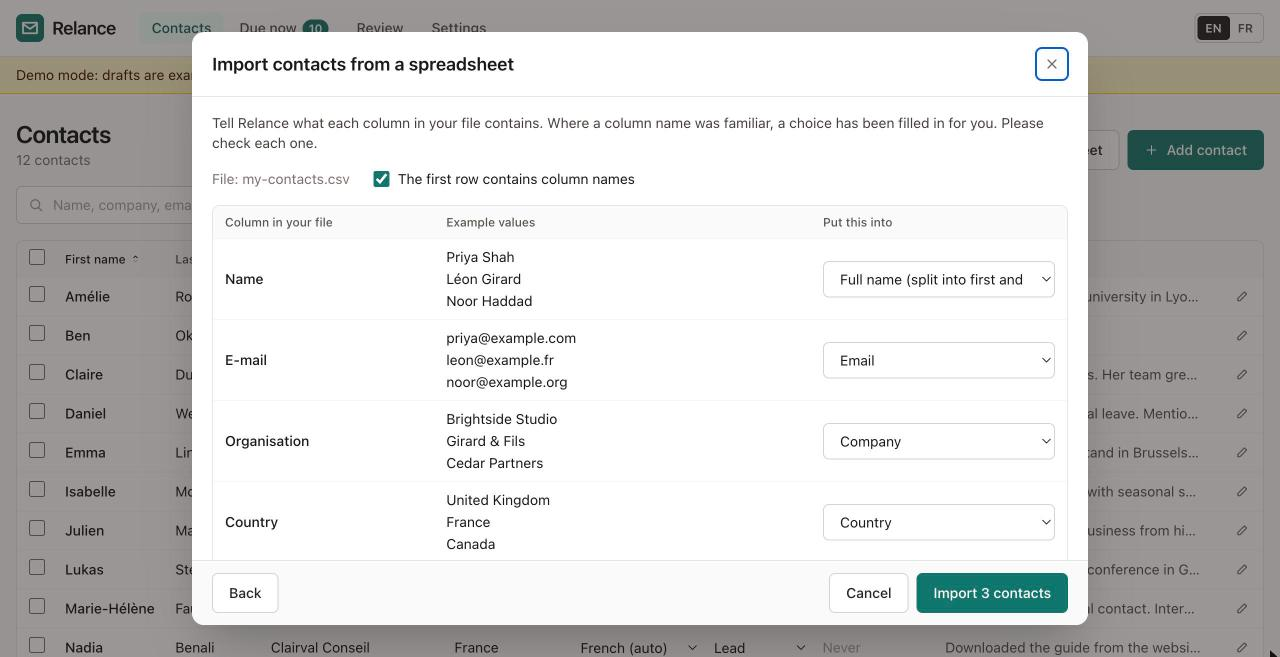
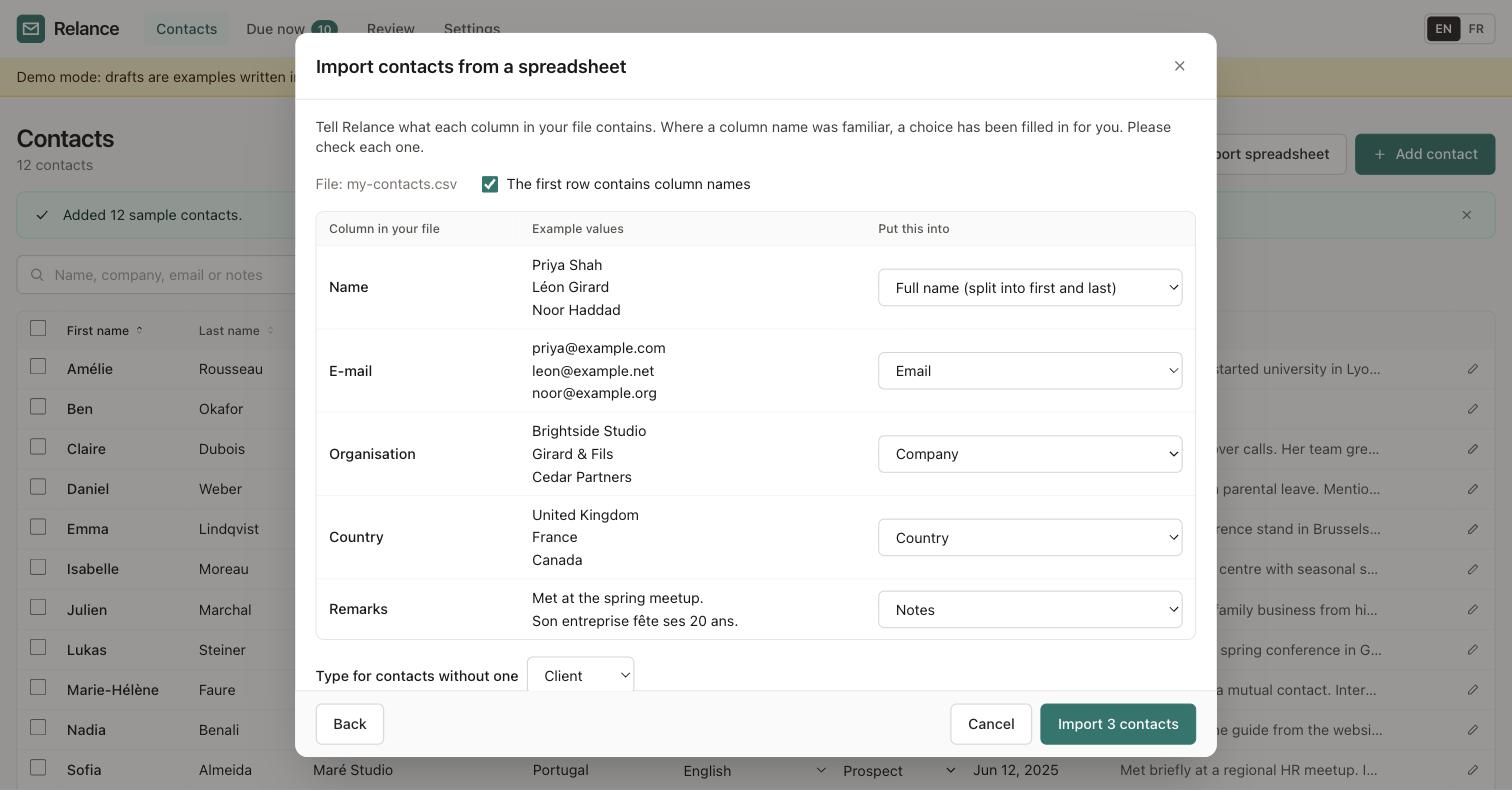
Security check: harden .gitignore, reserved example domains, remove use-case hints
- .gitignore covers .env, .env.* and files exported while testing
- Fixture emails use reserved example.com/.net/.org domains; import
  screenshot retaken with reserved domains
- Remove a return-to-office fixture detail and gendered references to the
  user so the project reads as generic

Claude-Session: https://claude.ai/code/session_019jaghgFYEvTLq4ikrmxA1i

diff --git a/src/export/eml.ts b/src/export/eml.ts
@@ -1,5 +1,5 @@
 // Builds unsent .eml drafts. There is deliberately no From/Date header and
-// nothing here can send mail: the user opens the file and sends it herself.
+// nothing here can send mail: the user opens the file and sends it themselves.
 
 const CRLF = '\r\n';
 

diff --git a/CLAUDE.md b/CLAUDE.md
@@ -1,8 +1,8 @@
 # Relance — project rules
 
 Open-source follow-up drafting tool. Static site; drafts personalized follow-up
-emails with Claude; the user sends them herself. The primary user is non-technical
-and works in French and English. Anything that would intimidate a non-technical
+emails with Claude; the user sends them themselves. The primary users are non-technical
+and work in French and English. Anything that would intimidate a non-technical
 person is a bug. Nothing in code, UI, defaults or sample data may be specific to
 any one company, industry or country. Contact types stay generic: client,
 prospect, lead.
@@ -19,8 +19,8 @@ prospect, lead.
    it carries only the redacted subset below. The production build ships a
    Content-Security-Policy whose `connect-src` is `'self' https://api.anthropic.com`,
    so the browser itself enforces this.
-4. **No build step for the user.** She visits a URL. Her only setup is pasting an
-   API key once.
+4. **No build step for the user.** They visit a URL. Their only setup is pasting
+   an API key once.
 5. **Every user-facing string is translatable.** EN and FR from day one via
    react-i18next. No hardcoded strings in components. `src/i18n/i18n.test.ts`
    checks key parity and scans components for literal JSX text.

diff --git a/PROGRESS.md b/PROGRESS.md
@@ -187,3 +187,19 @@ further testing to port 4174. The real drafts confirmed generation with
   → Due now → 10 demo drafts → edit → approve → .eml zip export, with no
   account, key or card.
 - CI: tests and build pass on GitHub's Linux runner; Pages deploys from `main`.
+
+## Follow-up round (after deploy)
+
+### 0. Security check
+- History: no credentials. The only `sk-ant` strings are `sk-ant-...`
+  placeholders and three made-up test strings. No `.env`/secret/token file ever
+  committed; no other token formats.
+- `.gitignore` now covers `.env`, `.env.*` (except `.env.example`), `*.local`
+  and files exported from the app while testing.
+- Fixtures moved to reserved example domains (example.com/.net/.org; `.fr`,
+  `.ie`, `.be`, `.pt` are registrable). Import screenshot retaken.
+- Removed two soft hints of the original use case (a "return-to-office"
+  fixture detail; gendered references to "the user" in CLAUDE.md/code).
+- No source maps, local paths, usernames or machine names in the build.
+- Not fixable without rewriting history: commits carry the author's
+  university email address. Flagged to the owner; history left untouched.
